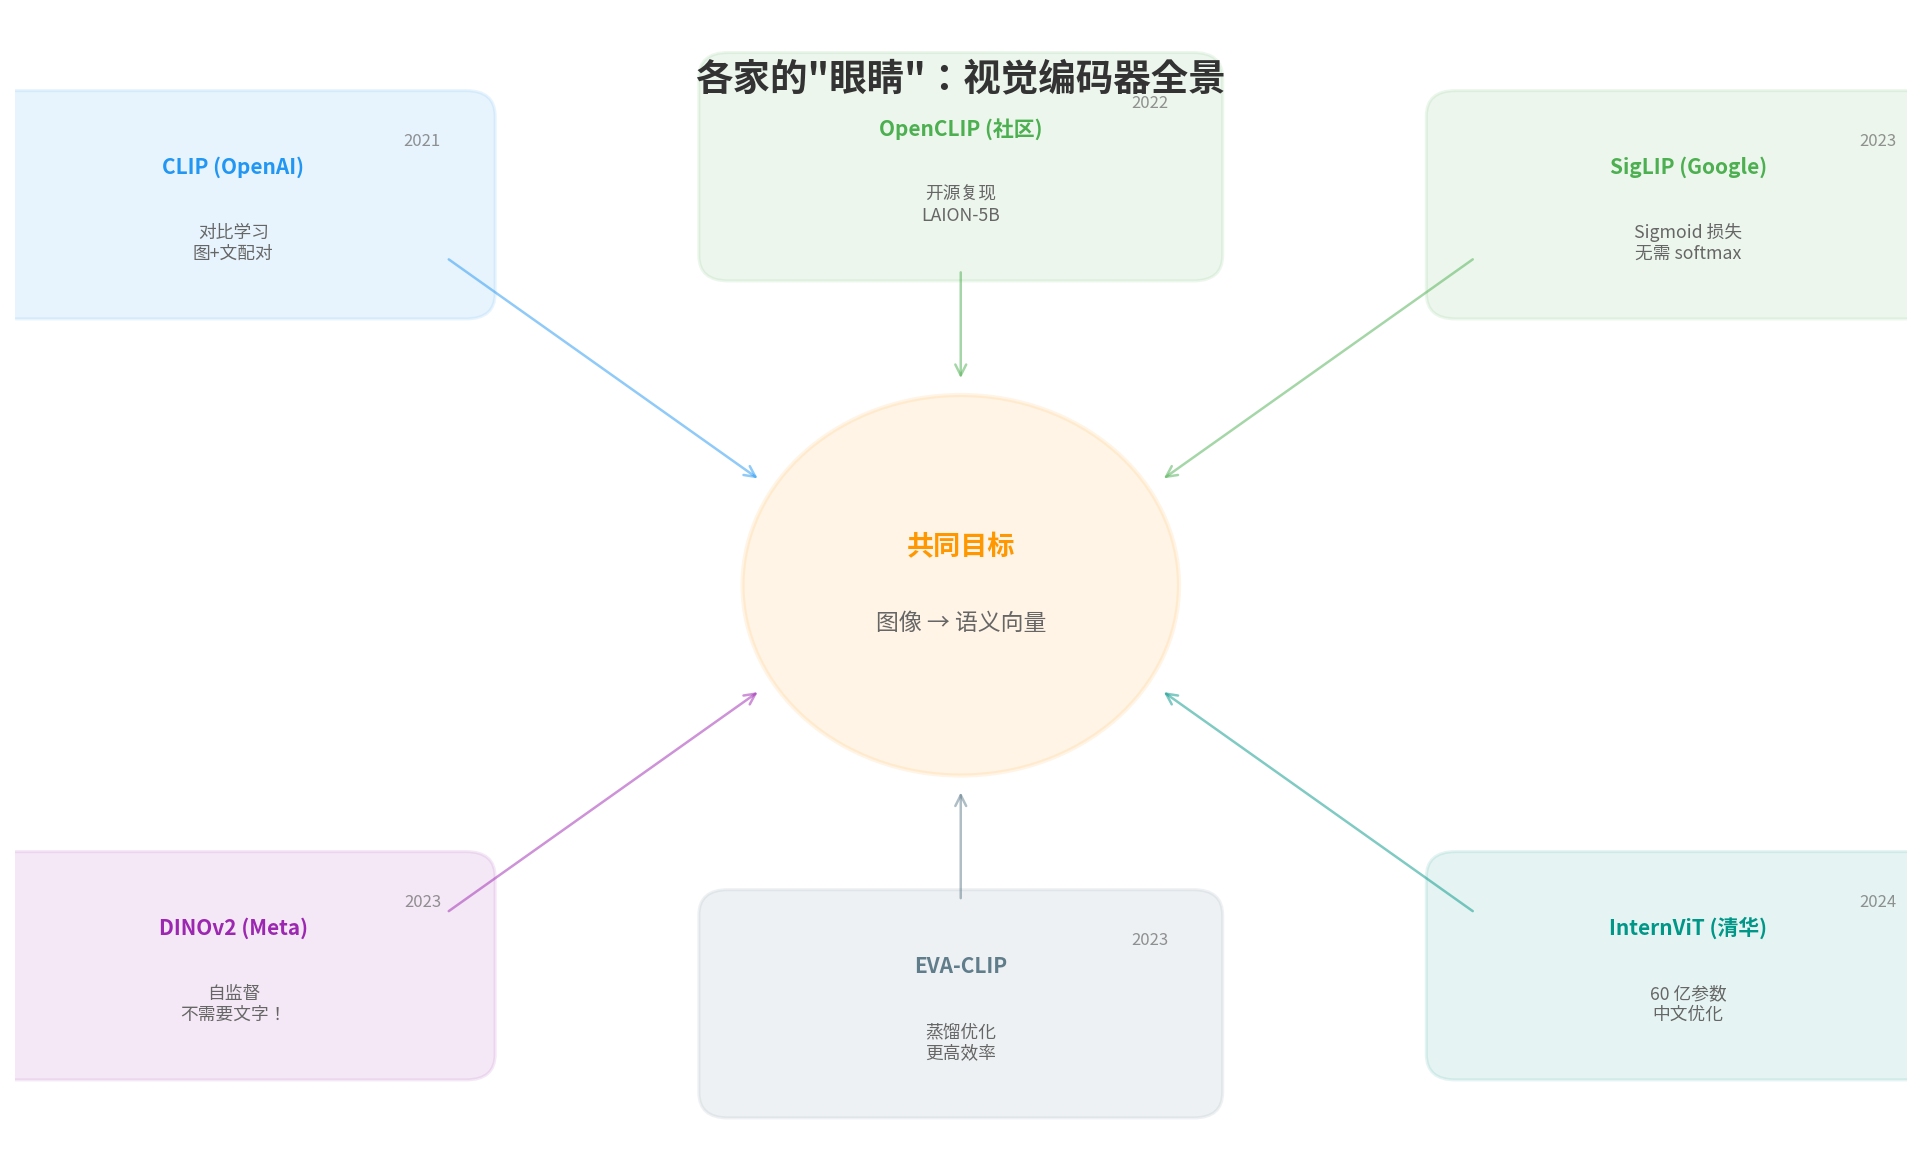
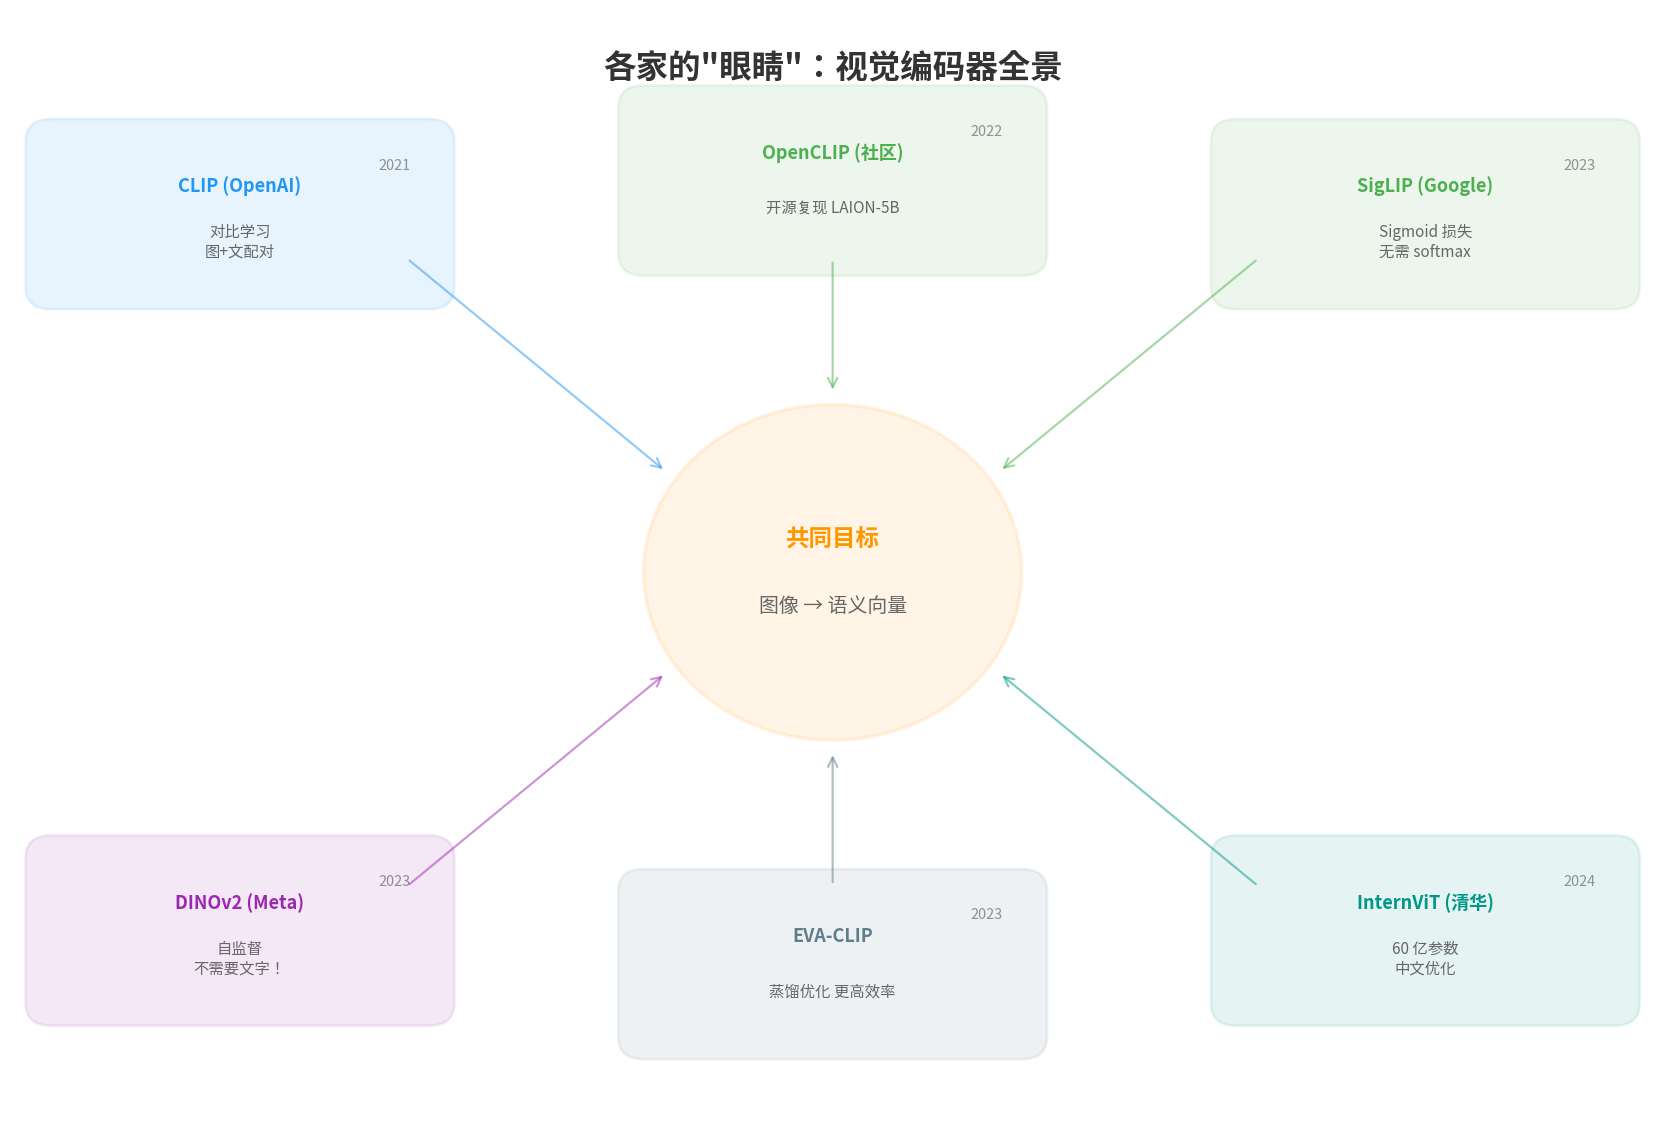
Regenerate CLIP article diagrams: fix text-shape overlap, reduce size
- open_source_anatomy: push title higher, move column headers down
- eyes_comparison: spread out cards, separate title from OpenCLIP card
- clip_timeline: compact bottom space, fix text crowding near 2021.1
- All: reduce DPI from 150 to 130 for smaller file sizes

diff --git a/content/posts/clip-open-source-story/gen_diagrams.py b/content/posts/clip-open-source-story/gen_diagrams.py
@@ -1,0 +1,300 @@
+"""Generate diagrams for 'CLIP open source story' article."""
+import matplotlib
+matplotlib.use('Agg')
+import matplotlib.pyplot as plt
+import matplotlib.patches as mpatches
+from matplotlib.patches import FancyBboxPatch, FancyArrowPatch
+import numpy as np
+
+# Global style
+import matplotlib.font_manager as fm
+_cjk_font_path = '/usr/share/fonts/opentype/noto/NotoSansCJK-Regular.ttc'
+_cjk_font = fm.FontProperties(fname=_cjk_font_path)
+fm.fontManager.addfont(_cjk_font_path)
+plt.rcParams['font.family'] = _cjk_font.get_name()
+plt.rcParams['font.size'] = 13
+plt.rcParams['axes.unicode_minus'] = False
+
+COLORS = {
+    'green': '#4CAF50',
+    'blue': '#2196F3',
+    'orange': '#FF9800',
+    'red': '#F44336',
+    'purple': '#9C27B0',
+    'grey': '#607D8B',
+    'teal': '#009688',
+    'light_bg': '#F5F5F5',
+    'white': '#FFFFFF',
+    'dark_text': '#333333',
+    'mid_text': '#666666',
+}
+
+OUT_DIR = '/home/azureuser/ai-blog/content/posts/clip-open-source-story/'
+DPI = 130  # slightly smaller images
+
+
+# ============================================================
+# Diagram 1: CLIP Timeline / Evolution
+# ============================================================
+def make_timeline():
+    fig, ax = plt.subplots(figsize=(13, 7))
+    ax.set_xlim(-0.5, 10)
+    ax.set_ylim(0, 9)
+    ax.axis('off')
+    fig.patch.set_facecolor(COLORS['white'])
+
+    ax.text(5, 8.5, 'CLIP 的涟漪：一个模型如何改变整个视觉 AI 生态',
+            ha='center', va='center', fontsize=17, fontweight='bold', color=COLORS['dark_text'])
+
+    # Timeline line — moved up to y=6.5
+    tl_y = 6.5
+    ax.plot([1, 9], [tl_y, tl_y], color=COLORS['grey'], linewidth=2, zorder=1)
+
+    # Year markers
+    years = [(1.5, '2021.1'), (3.5, '2021.3'), (5, '2022'), (6.5, '2023'), (8.5, '2024')]
+    for x, label in years:
+        ax.plot(x, tl_y, 'o', color=COLORS['grey'], markersize=10, zorder=2)
+        ax.text(x, tl_y + 0.3, label, ha='center', va='bottom', fontsize=10,
+                color=COLORS['mid_text'], fontweight='bold')
+
+    # Events above timeline (OpenAI / closed)
+    events_above = [
+        (1.5, 'OpenAI 发布\nCLIP + DALL·E', COLORS['blue']),
+        (6.5, 'GPT-4V\n原生多模态', COLORS['blue']),
+    ]
+    for x, text, color in events_above:
+        ax.annotate(text, xy=(x, tl_y + 0.1), xytext=(x, 7.8),
+                    ha='center', va='bottom', fontsize=10, color=color, fontweight='bold',
+                    arrowprops=dict(arrowstyle='->', color=color, lw=1.5))
+
+    # Events below timeline (open source / community)
+    events_below = [
+        (1.5, '公开权重+代码\n但数据未公开', COLORS['orange'], 5.3),
+        (3.5, 'LAION-400M\n开源 4 亿对数据', COLORS['green'], 4.9),
+        (5, 'LAION-5B\n50 亿对！\nOpenCLIP 复现', COLORS['green'], 4.2),
+        (6.5, 'SigLIP (Google)\nDINOv2 (Meta)\nMetaCLIP (Meta)', COLORS['purple'], 3.8),
+        (8.5, 'InternViT (清华)\nQwen-VL (阿里)\n各家自研眼睛', COLORS['teal'], 4.2),
+    ]
+    for x, text, color, y in events_below:
+        ax.annotate(text, xy=(x, tl_y - 0.1), xytext=(x, y),
+                    ha='center', va='top', fontsize=9.5, color=color,
+                    arrowprops=dict(arrowstyle='->', color=color, lw=1.5))
+
+    # Legend boxes — more compact
+    legend_y = 1.2
+    for i, (label, color) in enumerate([
+        ('OpenAI（闭源）', COLORS['blue']),
+        ('社区开源', COLORS['green']),
+        ('大厂自研', COLORS['purple']),
+    ]):
+        ax.add_patch(FancyBboxPatch((1 + i*3, legend_y - 0.25), 2.5, 0.5,
+                     boxstyle="round,pad=0.15", facecolor=color, alpha=0.15, edgecolor=color, linewidth=1.5))
+        ax.text(2.25 + i*3, legend_y, label, ha='center', va='center', fontsize=11, color=color, fontweight='bold')
+
+    # Bottom note
+    ax.text(5, 0.3, '一个模型的开源引发了整个生态的"造眼睛"军备竞赛',
+            ha='center', va='center', fontsize=12, color=COLORS['mid_text'], style='italic')
+
+    fig.tight_layout()
+    fig.savefig(OUT_DIR + 'clip_timeline.png',
+                dpi=DPI, bbox_inches='tight', facecolor=COLORS['white'])
+    plt.close()
+    print("OK: clip_timeline.png")
+
+
+# ============================================================
+# Diagram 2: Open Source Anatomy — what's opened, what's hidden
+# ============================================================
+def make_open_source_anatomy():
+    fig, ax = plt.subplots(figsize=(12, 9.5))
+    ax.set_xlim(0, 12)
+    ax.set_ylim(0, 11)
+    ax.axis('off')
+    fig.patch.set_facecolor(COLORS['white'])
+
+    # Title — pushed higher
+    ax.text(6, 10.5, '"开源"的解剖：到底开了什么？',
+            ha='center', va='center', fontsize=18, fontweight='bold', color=COLORS['dark_text'])
+
+    # Three columns — pushed down so they don't overlap title
+    columns = [
+        ('OpenAI\nCLIP', 2, COLORS['blue']),
+        ('LAION\nOpenCLIP', 6, COLORS['green']),
+        ('Google/Meta\nSigLIP/DINOv2', 10, COLORS['purple']),
+    ]
+
+    items = [
+        ('论文 / 方法', 8.5),
+        ('模型权重', 7.3),
+        ('训练代码', 6.1),
+        ('训练数据', 4.9),
+        ('数据筛选算法', 3.7),
+        ('训练超参数', 2.5),
+    ]
+
+    # Column headers — at y=9.5
+    header_y = 9.5
+    for label, x, color in columns:
+        ax.add_patch(FancyBboxPatch((x-1.5, header_y - 0.45), 3, 0.9,
+                     boxstyle="round,pad=0.15", facecolor=color, alpha=0.2, edgecolor=color, linewidth=2))
+        ax.text(x, header_y, label, ha='center', va='center', fontsize=11, fontweight='bold', color=color)
+
+    # Status for each item in each column
+    statuses = [
+        ['open', 'open', 'open'],        # Paper
+        ['open', 'open', 'open'],        # Weights
+        ['open', 'open', 'partial'],     # Code
+        ['closed', 'open', 'closed'],    # Data
+        ['closed', 'open', 'partial'],   # Algorithm
+        ['partial', 'open', 'partial'],  # Hyperparams
+    ]
+
+    status_display = {
+        'open': ('✓ 公开', COLORS['green'], COLORS['green']),
+        'closed': ('✗ 未公开', COLORS['red'], COLORS['red']),
+        'partial': ('△ 部分', COLORS['orange'], COLORS['orange']),
+    }
+
+    for i, (item_label, y) in enumerate(items):
+        ax.text(0.1, y, item_label, ha='left', va='center', fontsize=12, fontweight='bold', color=COLORS['dark_text'])
+        ax.plot([0, 12], [y - 0.5, y - 0.5], color='#E0E0E0', linewidth=0.5)
+
+        for j, (_, x, _) in enumerate(columns):
+            status = statuses[i][j]
+            symbol, fg_color, _ = status_display[status]
+            bg_alpha = 0.1
+            bg_color = fg_color
+
+            ax.add_patch(FancyBboxPatch((x-1.2, y-0.3), 2.4, 0.6,
+                         boxstyle="round,pad=0.1", facecolor=bg_color, alpha=bg_alpha,
+                         edgecolor=bg_color, linewidth=1))
+            ax.text(x, y, symbol, ha='center', va='center', fontsize=11, color=fg_color, fontweight='bold')
+
+    # Bottom insight
+    ax.add_patch(FancyBboxPatch((0.5, 0.6), 11, 1.2,
+                 boxstyle="round,pad=0.2", facecolor=COLORS['orange'], alpha=0.08,
+                 edgecolor=COLORS['orange'], linewidth=1.5))
+    ax.text(6, 1.2, '关键洞察："开源"不是一个二元概念——它是一个光谱。\n'
+                     '只有 LAION/OpenCLIP 做到了从论文到数据的完全开源，实现了真正的可复现。',
+            ha='center', va='center', fontsize=11, color=COLORS['dark_text'], style='italic')
+
+    fig.tight_layout()
+    fig.savefig(OUT_DIR + 'open_source_anatomy.png',
+                dpi=DPI, bbox_inches='tight', facecolor=COLORS['white'])
+    plt.close()
+    print("OK: open_source_anatomy.png")
+
+
+# ============================================================
+# Diagram 3: Vision Encoder Ecosystem — various "eyes"
+# ============================================================
+def make_eyes_comparison():
+    fig, ax = plt.subplots(figsize=(13, 9))
+    ax.set_xlim(0, 13)
+    ax.set_ylim(0, 10)
+    ax.axis('off')
+    fig.patch.set_facecolor(COLORS['white'])
+
+    # Title — moved higher
+    ax.text(6.5, 9.5, '各家的"眼睛"：视觉编码器全景',
+            ha='center', va='center', fontsize=18, fontweight='bold', color=COLORS['dark_text'])
+
+    # Center: shared concept — stays at 5
+    cx, cy = 6.5, 5.0
+    circle = plt.Circle((cx, cy), 1.5, facecolor=COLORS['orange'], alpha=0.1,
+                         edgecolor=COLORS['orange'], linewidth=2)
+    ax.add_patch(circle)
+    ax.text(cx, cy + 0.3, '共同目标', ha='center', va='center', fontsize=13, fontweight='bold', color=COLORS['orange'])
+    ax.text(cx, cy - 0.3, '图像 → 语义向量', ha='center', va='center', fontsize=11, color=COLORS['mid_text'])
+
+    # Surrounding entries — spread out more, OpenCLIP moved down from title
+    entries = [
+        (1.8, 8.2, 'CLIP (OpenAI)', '对比学习\n图+文配对', COLORS['blue'], '2021'),
+        (11.2, 8.2, 'SigLIP (Google)', 'Sigmoid 损失\n无需 softmax', COLORS['green'], '2023'),
+        (1.8, 1.8, 'DINOv2 (Meta)', '自监督\n不需要文字！', COLORS['purple'], '2023'),
+        (11.2, 1.8, 'InternViT (清华)', '60 亿参数\n中文优化', COLORS['teal'], '2024'),
+        (6.5, 8.5, 'OpenCLIP (社区)', '开源复现 LAION-5B', COLORS['green'], '2022'),
+        (6.5, 1.5, 'EVA-CLIP', '蒸馏优化 更高效率', COLORS['grey'], '2023'),
+    ]
+
+    for x, y, name, desc, color, year in entries:
+        bw, bh = 3.0, 1.3
+        ax.add_patch(FancyBboxPatch((x - bw/2, y - bh/2), bw, bh,
+                     boxstyle="round,pad=0.2", facecolor=color, alpha=0.1,
+                     edgecolor=color, linewidth=1.5))
+        ax.text(x, y + 0.25, name, ha='center', va='center', fontsize=10, fontweight='bold', color=color)
+        ax.text(x, y - 0.25, desc, ha='center', va='center', fontsize=8.5, color=COLORS['mid_text'])
+        ax.text(x + bw/2 - 0.15, y + bh/2 - 0.15, year, ha='right', va='top', fontsize=8,
+                color=COLORS['mid_text'], style='italic', alpha=0.7)
+
+        # Arrow to center
+        dx = cx - x
+        dy = cy - y
+        dist = np.sqrt(dx**2 + dy**2)
+        if dist > 2.5:
+            ndx, ndy = dx/dist, dy/dist
+            ax.annotate('', xy=(cx - ndx*1.6, cy - ndy*1.6),
+                       xytext=(x + ndx*1.6, y + ndy*0.7),
+                       arrowprops=dict(arrowstyle='->', color=color, lw=1.2, alpha=0.5))
+
+    fig.tight_layout()
+    fig.savefig(OUT_DIR + 'eyes_comparison.png',
+                dpi=DPI, bbox_inches='tight', facecolor=COLORS['white'])
+    plt.close()
+    print("OK: eyes_comparison.png")
+
+
+# ============================================================
+# Diagram 4: LAION data pipeline
+# ============================================================
+def make_laion_pipeline():
+    fig, ax = plt.subplots(figsize=(13, 5.5))
+    ax.set_xlim(0, 14)
+    ax.set_ylim(0, 6.5)
+    ax.axis('off')
+    fig.patch.set_facecolor(COLORS['white'])
+
+    ax.text(7, 6.1, 'LAION 如何"逆向工程"训练数据',
+            ha='center', va='center', fontsize=17, fontweight='bold', color=COLORS['dark_text'])
+
+    # Pipeline steps
+    steps = [
+        (1.5, 3.5, 'Common Crawl\n互联网爬虫', '数十亿网页\n公开数据', COLORS['grey']),
+        (4.5, 3.5, '提取 <img> 标签\n+ alt 文本', '图片 URL\n+ 描述文字', COLORS['blue']),
+        (7.5, 3.5, '用 CLIP 打分\n计算图文相似度', '过滤低质量\n图文对', COLORS['orange']),
+        (10.5, 3.5, 'LAION-5B\n50 亿对', '完全开源\n可下载', COLORS['green']),
+    ]
+
+    for i, (x, y, title, desc, color) in enumerate(steps):
+        ax.add_patch(FancyBboxPatch((x-1.3, y-0.9), 2.6, 1.8,
+                     boxstyle="round,pad=0.2", facecolor=color, alpha=0.12,
+                     edgecolor=color, linewidth=2))
+        ax.text(x, y + 0.25, title, ha='center', va='center', fontsize=10.5, fontweight='bold', color=color)
+        ax.text(x, y - 0.45, desc, ha='center', va='center', fontsize=9, color=COLORS['mid_text'])
+
+        if i < len(steps) - 1:
+            next_x = steps[i+1][0]
+            ax.annotate('', xy=(next_x - 1.4, y), xytext=(x + 1.4, y),
+                       arrowprops=dict(arrowstyle='->', color=COLORS['dark_text'], lw=2))
+
+    # Irony note
+    ax.add_patch(FancyBboxPatch((2, 0.8), 10, 1.0,
+                 boxstyle="round,pad=0.15", facecolor=COLORS['purple'], alpha=0.06,
+                 edgecolor=COLORS['purple'], linewidth=1, linestyle='--'))
+    ax.text(7, 1.3, '递归的味道：用 OpenAI 的 CLIP 来过滤数据 → 训练开源的 CLIP 替代品\n'
+                     '就像用别人的秤来校准自己的秤——最终你可以不再依赖那把秤',
+            ha='center', va='center', fontsize=10.5, color=COLORS['purple'], style='italic')
+
+    fig.tight_layout()
+    fig.savefig(OUT_DIR + 'laion_pipeline.png',
+                dpi=DPI, bbox_inches='tight', facecolor=COLORS['white'])
+    plt.close()
+    print("OK: laion_pipeline.png")
+
+
+if __name__ == '__main__':
+    make_timeline()
+    make_open_source_anatomy()
+    make_eyes_comparison()
+    make_laion_pipeline()
+    print("\nAll CLIP article diagrams generated!")
